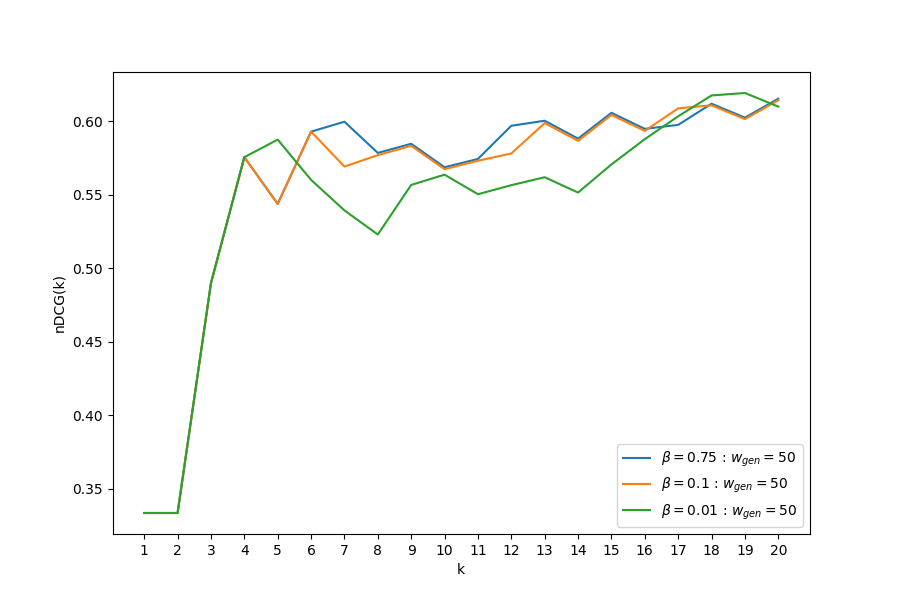
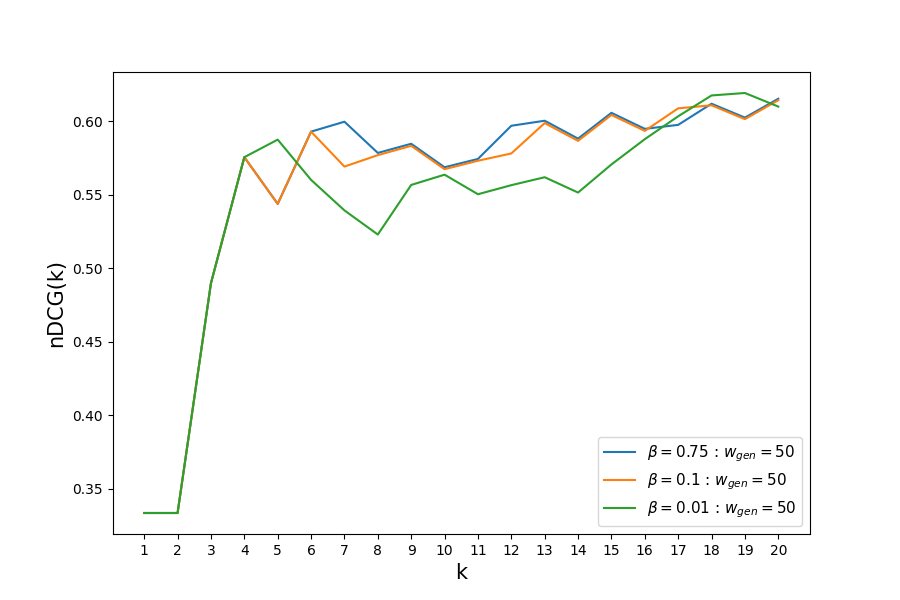
Reformated plots for report.

Changed region(s): [[0.6844, 0.72, 0.9022, 0.9], [0.0311, 0.45, 0.0933, 0.57], [0.4978, 0.93, 0.5289, 0.96]]

diff --git a/relevance_tests/nDCG_calculator.py b/relevance_tests/nDCG_calculator.py
@@ -125,9 +125,9 @@ def plot_ndcg(username, query, betas=None, g_boosts=None, suffix='all', legend_s
 	if legend_shift:
 		ax.legend(loc='center left', bbox_to_anchor=(1, 0.5))
 	else:
-		ax.legend()
-	plt.xlabel('k')
-	plt.ylabel('nDCG(k)')
+		ax.legend(fontsize=11)
+	plt.xlabel('k', fontsize=15)
+	plt.ylabel('nDCG(k)', fontsize=15)
 	plt.xticks(ks)
 	plt.savefig(f'./relevance_tests/plots/{username}-{"_".join(query.split(" "))}_{suffix}.png')
 	
